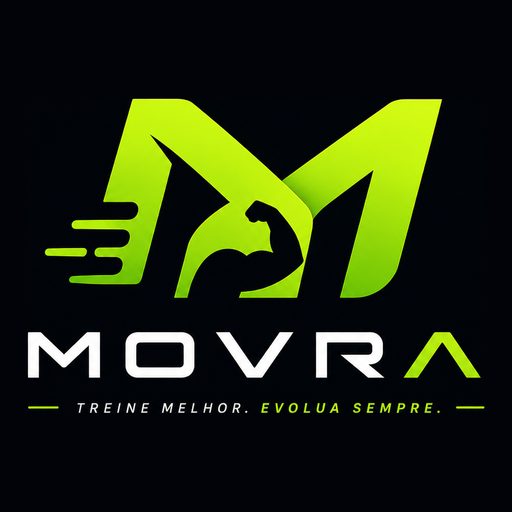
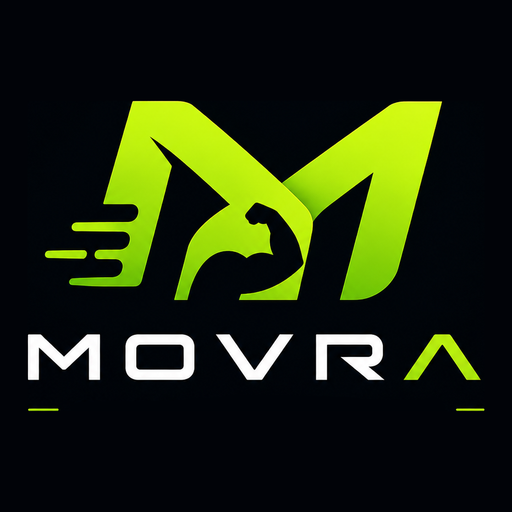
fix(auth): preserva cookies renovados nos redirects do middleware
A sessão morria ao reabrir o app: o usuário caía no login mesmo com o
refresh token ainda válido.

O `setAll` grava os cookies renovados no `supabaseResponse`, mas os dois
guards de rota retornavam um `NextResponse.redirect()` cru — uma resposta
nova, sem esses cookies. Como o Supabase rotaciona o refresh token (o antigo
é invalidado assim que o novo é emitido), o browser ficava com um token já
queimado e o refresh seguinte falhava.

O caminho que disparava isso com mais frequência: o start_url do PWA é "/",
que mostra a landing mesmo para quem tem sessão. O usuário toca em "Já tenho
conta", cai em /login autenticado, e o guard `user && AUTH_PREFIXES`
redireciona para o dashboard descartando o token rotacionado — ou seja, cada
passagem pelo login queimava a sessão.

Ambos os redirects agora copiam os cookies do supabaseResponse antes de sair.

Atualiza também os assets derivados da nova versão de movra.png (tagline
removida da arte) e corrige o alt da logo, que citava a tagline ausente.

diff --git a/src/infrastructure/supabase/middleware.ts b/src/infrastructure/supabase/middleware.ts
@@ -45,19 +45,36 @@ export async function updateSession(request: NextRequest) {
 
   const { pathname } = request.nextUrl;
 
+  /**
+   * Redireciona PRESERVANDO os cookies que o `getUser()` acabou de renovar.
+   *
+   * O Supabase rotaciona o refresh token: ao renovar, o token antigo é
+   * invalidado e um novo é emitido no `supabaseResponse`. Um
+   * `NextResponse.redirect()` cru descarta essa resposta, então o browser
+   * continua com o token já queimado e a sessão morre no request seguinte —
+   * o usuário cai no login toda vez que reabre o app.
+   */
+  const redirectPreservingSession = (url: URL) => {
+    const response = NextResponse.redirect(url);
+    for (const cookie of supabaseResponse.cookies.getAll()) {
+      response.cookies.set(cookie);
+    }
+    return response;
+  };
+
   // Não autenticado tentando acessar área protegida → login.
   if (!user && matchesPrefix(pathname, PROTECTED_PREFIXES)) {
     const url = request.nextUrl.clone();
     url.pathname = ROUTES.login;
     url.searchParams.set("redirect", pathname);
-    return NextResponse.redirect(url);
+    return redirectPreservingSession(url);
   }
 
   // Autenticado em página de auth → dashboard.
   if (user && matchesPrefix(pathname, AUTH_PREFIXES)) {
     const url = request.nextUrl.clone();
     url.pathname = ROUTES.dashboard;
-    return NextResponse.redirect(url);
+    return redirectPreservingSession(url);
   }
 
   return supabaseResponse;

diff --git a/src/app/page.tsx b/src/app/page.tsx
@@ -52,7 +52,7 @@ export default function LandingPage() {
           <div className="ring-primary/20 rounded-[2rem] bg-[#010308] p-4 shadow-xl shadow-black/20 ring-1">
             <Image
               src="/movra.png"
-              alt="Movra — Treine melhor. Evolua sempre."
+              alt="Movra"
               width={512}
               height={512}
               priority
